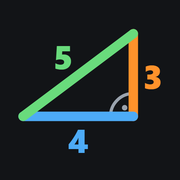
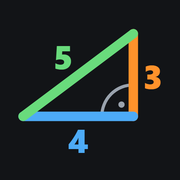
Zgrabniejszy znak kąta prostego
Większy łuk, a kropka w połowie promienia na dwusiecznej, żeby nie
wciskała się w róg między grubymi bokami. To samo w ikonie.

Claude-Session: https://claude.ai/code/session_01L6XMmqjEGXUeu7wtMqbWLm

Changed region(s): [[0.5556, 0.4444, 0.7222, 0.6389]]

diff --git a/index.html b/index.html
@@ -199,8 +199,9 @@
 
   <!-- Trójkąt wyśrodkowany w osi (x = 220); kąt prosty w (332,206); A = 3 j., B = 4 j., C = 5 j. (1 j. = 56) -->
   <svg viewBox="0 0 440 250" role="img" aria-label="Trójkąt prostokątny: A i B to boki przy kącie prostym, C to przeciwprostokątna">
-    <path class="corner" d="M300 206 A32 32 0 0 1 332 174"/>
-    <circle class="corner-dot" cx="320.7" cy="194.7" r="3.5"/>
+    <!-- Znak kąta prostego: łuk r=42 i kropka w połowie promienia, na dwusiecznej kąta -->
+    <path class="corner" d="M290 206 A42 42 0 0 1 332 164"/>
+    <circle class="corner-dot" cx="317" cy="191" r="3.5"/>
     <line class="side" data-side="a" x1="332" y1="38" x2="332" y2="206"/>
     <line class="side" data-side="b" x1="108" y1="206" x2="332" y2="206"/>
     <line class="side" data-side="c" x1="108" y1="206" x2="332" y2="38"/>

diff --git a/sw.js b/sw.js
@@ -1,5 +1,5 @@
 // Podbij wersję przy każdej zmianie plików, żeby telefony pobrały nowe.
-const CACHE = 'trojkat-v8';
+const CACHE = 'trojkat-v9';
 const ASSETS = [
   './',
   './index.html',
